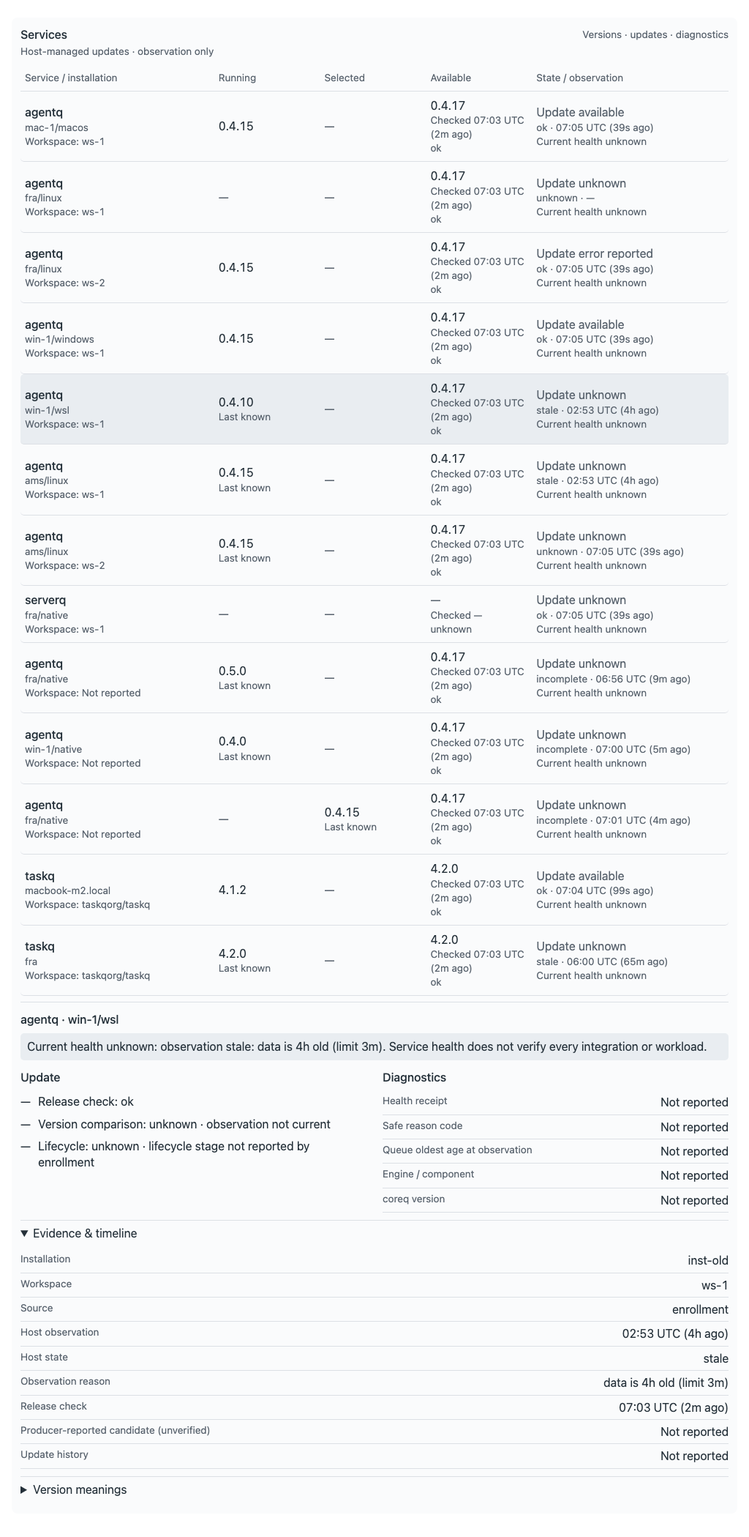
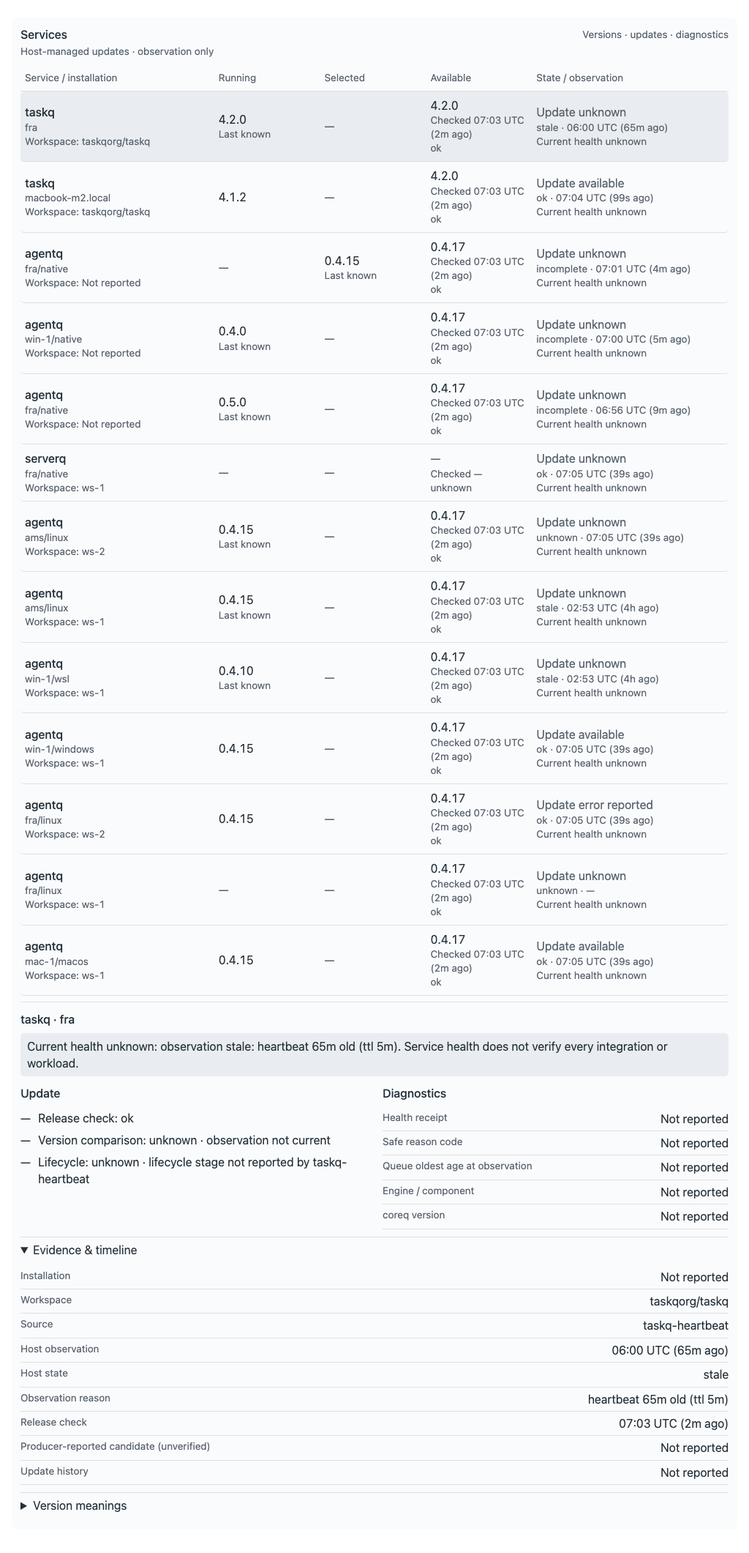
fix(versions): keep legacy host diagnostics distinct
Task: https://github.com/taskqorg/dashq/issues/72

diff --git a/fixture/page.html b/fixture/page.html
@@ -97,13 +97,13 @@
 </table>
 </section>
 <section id="qversions"><div class="app"><div class="line spread"><h2>Services</h2><small>Versions · updates · diagnostics</small></div><small>Host-managed updates · observation only</small><div class="inventory"><div class="row rowhead"><span>Service / installation</span><span>Running</span><span>Selected</span><span>Available</span><span>State / observation</span></div>
-<button type="button" class="row version-select" id="select-version-%5B%22agentq%22%2C%22langfuse%22%2C%22inst-fra%22%2Cnull%5D" aria-controls="version-%5B%22agentq%22%2C%22langfuse%22%2C%22inst-fra%22%2Cnull%5D" aria-pressed="true" aria-expanded="true"><span class="identity"><strong>agentq</strong><small>fra/native</small><small>Workspace: Not reported</small></span><span><span class="label">Running</span>0.5.0<small>Last known</small></span><span><span class="label">Selected</span><span class="muted" title="Unknown: not reported">—</span></span><span><span class="label">Available</span>0.4.17<small>Checked 07:03 UTC (2m ago)</small><small>ok</small></span><span class="health muted">Update unknown<small>incomplete · 06:56 UTC (9m ago)</small><small>Current health unknown</small></span></button>
-<button type="button" class="row version-select" id="select-version-%5B%22agentq%22%2C%22langfuse%22%2C%22inst-win%22%2Cnull%5D" aria-controls="version-%5B%22agentq%22%2C%22langfuse%22%2C%22inst-win%22%2Cnull%5D" aria-pressed="false" aria-expanded="false"><span class="identity"><strong>agentq</strong><small>win-1/native</small><small>Workspace: Not reported</small></span><span><span class="label">Running</span>0.4.0<small>Last known</small></span><span><span class="label">Selected</span><span class="muted" title="Unknown: not reported">—</span></span><span><span class="label">Available</span>0.4.17<small>Checked 07:03 UTC (2m ago)</small><small>ok</small></span><span class="health muted">Update unknown<small>incomplete · 07:00 UTC (5m ago)</small><small>Current health unknown</small></span></button>
-<button type="button" class="row version-select" id="select-version-%5B%22agentq%22%2C%22langfuse-legacy%22%2C%22device%3Adev-fra%22%2Cnull%5D" aria-controls="version-%5B%22agentq%22%2C%22langfuse-legacy%22%2C%22device%3Adev-fra%22%2Cnull%5D" aria-pressed="false" aria-expanded="false"><span class="identity"><strong>agentq</strong><small>fra/native</small><small>Workspace: Not reported</small></span><span><span class="label">Running</span><span class="muted" title="Unknown: not reported">—</span></span><span><span class="label">Selected</span>0.4.16<small>Last known</small></span><span><span class="label">Available</span>0.4.17<small>Checked 07:03 UTC (2m ago)</small><small>ok</small></span><span class="health muted">Update unknown<small>incomplete · 07:01 UTC (4m ago)</small><small>Current health unknown</small></span></button>
-<button type="button" class="row version-select" id="select-version-%5B%22taskq%22%2C%22taskq-heartbeat%22%2Cnull%2C%22taskqorg%2Ftaskq%22%5D" aria-controls="version-%5B%22taskq%22%2C%22taskq-heartbeat%22%2Cnull%2C%22taskqorg%2Ftaskq%22%5D" aria-pressed="false" aria-expanded="false"><span class="identity"><strong>taskq</strong><small>macbook-m2.local</small><small>Workspace: taskqorg/taskq</small></span><span><span class="label">Running</span>4.1.2</span><span><span class="label">Selected</span><span class="muted" title="Unknown: not reported">—</span></span><span><span class="label">Available</span>4.2.0<small>Checked 07:03 UTC (2m ago)</small><small>ok</small></span><span class="health muted">Update available<small>ok · 07:04 UTC (99s ago)</small><small>Current health unknown</small></span></button>
-<button type="button" class="row version-select" id="select-version-%5B%22taskq%22%2C%22taskq-heartbeat%22%2Cnull%2C%22taskqorg%2Ftaskq%22%5D" aria-controls="version-%5B%22taskq%22%2C%22taskq-heartbeat%22%2Cnull%2C%22taskqorg%2Ftaskq%22%5D" aria-pressed="false" aria-expanded="false"><span class="identity"><strong>taskq</strong><small>fra</small><small>Workspace: taskqorg/taskq</small></span><span><span class="label">Running</span>4.2.0<small>Last known</small></span><span><span class="label">Selected</span><span class="muted" title="Unknown: not reported">—</span></span><span><span class="label">Available</span>4.2.0<small>Checked 07:03 UTC (2m ago)</small><small>ok</small></span><span class="health muted">Update unknown<small>stale · 06:00 UTC (65m ago)</small><small>Current health unknown</small></span></button>
+<button type="button" class="row version-select" id="select-version-%5B%22agentq%22%2C%22langfuse%22%2C%22inst-fra%22%2Cnull%2Cnull%5D" aria-controls="version-%5B%22agentq%22%2C%22langfuse%22%2C%22inst-fra%22%2Cnull%2Cnull%5D" aria-pressed="true" aria-expanded="true"><span class="identity"><strong>agentq</strong><small>fra/native</small><small>Workspace: Not reported</small></span><span><span class="label">Running</span>0.5.0<small>Last known</small></span><span><span class="label">Selected</span><span class="muted" title="Unknown: not reported">—</span></span><span><span class="label">Available</span>0.4.17<small>Checked 07:03 UTC (2m ago)</small><small>ok</small></span><span class="health muted">Update unknown<small>incomplete · 06:56 UTC (9m ago)</small><small>Current health unknown</small></span></button>
+<button type="button" class="row version-select" id="select-version-%5B%22agentq%22%2C%22langfuse%22%2C%22inst-win%22%2Cnull%2Cnull%5D" aria-controls="version-%5B%22agentq%22%2C%22langfuse%22%2C%22inst-win%22%2Cnull%2Cnull%5D" aria-pressed="false" aria-expanded="false"><span class="identity"><strong>agentq</strong><small>win-1/native</small><small>Workspace: Not reported</small></span><span><span class="label">Running</span>0.4.0<small>Last known</small></span><span><span class="label">Selected</span><span class="muted" title="Unknown: not reported">—</span></span><span><span class="label">Available</span>0.4.17<small>Checked 07:03 UTC (2m ago)</small><small>ok</small></span><span class="health muted">Update unknown<small>incomplete · 07:00 UTC (5m ago)</small><small>Current health unknown</small></span></button>
+<button type="button" class="row version-select" id="select-version-%5B%22agentq%22%2C%22langfuse-legacy%22%2C%22device%3Adev-fra%22%2Cnull%2Cnull%5D" aria-controls="version-%5B%22agentq%22%2C%22langfuse-legacy%22%2C%22device%3Adev-fra%22%2Cnull%2Cnull%5D" aria-pressed="false" aria-expanded="false"><span class="identity"><strong>agentq</strong><small>fra/native</small><small>Workspace: Not reported</small></span><span><span class="label">Running</span><span class="muted" title="Unknown: not reported">—</span></span><span><span class="label">Selected</span>0.4.16<small>Last known</small></span><span><span class="label">Available</span>0.4.17<small>Checked 07:03 UTC (2m ago)</small><small>ok</small></span><span class="health muted">Update unknown<small>incomplete · 07:01 UTC (4m ago)</small><small>Current health unknown</small></span></button>
+<button type="button" class="row version-select" id="select-version-%5B%22taskq%22%2C%22taskq-heartbeat%22%2Cnull%2C%22taskqorg%2Ftaskq%22%2C%22macbook-m2.local%22%5D" aria-controls="version-%5B%22taskq%22%2C%22taskq-heartbeat%22%2Cnull%2C%22taskqorg%2Ftaskq%22%2C%22macbook-m2.local%22%5D" aria-pressed="false" aria-expanded="false"><span class="identity"><strong>taskq</strong><small>macbook-m2.local</small><small>Workspace: taskqorg/taskq</small></span><span><span class="label">Running</span>4.1.2</span><span><span class="label">Selected</span><span class="muted" title="Unknown: not reported">—</span></span><span><span class="label">Available</span>4.2.0<small>Checked 07:03 UTC (2m ago)</small><small>ok</small></span><span class="health muted">Update available<small>ok · 07:04 UTC (99s ago)</small><small>Current health unknown</small></span></button>
+<button type="button" class="row version-select" id="select-version-%5B%22taskq%22%2C%22taskq-heartbeat%22%2Cnull%2C%22taskqorg%2Ftaskq%22%2C%22fra%22%5D" aria-controls="version-%5B%22taskq%22%2C%22taskq-heartbeat%22%2Cnull%2C%22taskqorg%2Ftaskq%22%2C%22fra%22%5D" aria-pressed="false" aria-expanded="false"><span class="identity"><strong>taskq</strong><small>fra</small><small>Workspace: taskqorg/taskq</small></span><span><span class="label">Running</span>4.2.0<small>Last known</small></span><span><span class="label">Selected</span><span class="muted" title="Unknown: not reported">—</span></span><span><span class="label">Available</span>4.2.0<small>Checked 07:03 UTC (2m ago)</small><small>ok</small></span><span class="health muted">Update unknown<small>stale · 06:00 UTC (65m ago)</small><small>Current health unknown</small></span></button>
 </div>
-<section class="detail version-body" id="version-%5B%22agentq%22%2C%22langfuse%22%2C%22inst-fra%22%2Cnull%5D" aria-labelledby="select-version-%5B%22agentq%22%2C%22langfuse%22%2C%22inst-fra%22%2Cnull%5D"><h3>agentq · fra/native</h3><p class="notice">Current health unknown: observation incomplete: capped query. Service health does not verify every integration or workload.</p><div class="columns"><section><h3>Update</h3><ol class="steps">
+<section class="detail version-body" id="version-%5B%22agentq%22%2C%22langfuse%22%2C%22inst-fra%22%2Cnull%2Cnull%5D" aria-labelledby="select-version-%5B%22agentq%22%2C%22langfuse%22%2C%22inst-fra%22%2Cnull%2Cnull%5D"><h3>agentq · fra/native</h3><p class="notice">Current health unknown: observation incomplete: capped query. Service health does not verify every integration or workload.</p><div class="columns"><section><h3>Update</h3><ol class="steps">
 <li><span aria-hidden="true">—</span><span>Release check: ok</span></li>
 <li><span aria-hidden="true">—</span><span>Version comparison: unknown · observation not current</span></li>
 <li><span aria-hidden="true">—</span><span>Lifecycle: unknown · lifecycle stage not reported by langfuse</span></li>
@@ -113,7 +113,7 @@
 <div class="fact"><small>Queue oldest age at observation</small><span>Not reported</span></div>
 <div class="fact"><small>Engine / component</small><span>Not reported</span></div>
 <div class="fact"><small>coreq version</small><span>Not reported</span></div>
-</section></div><details id="events-version-%5B%22agentq%22%2C%22langfuse%22%2C%22inst-fra%22%2Cnull%5D"><summary id="summary-events-version-%5B%22agentq%22%2C%22langfuse%22%2C%22inst-fra%22%2Cnull%5D">Evidence &amp; timeline</summary>
+</section></div><details id="events-version-%5B%22agentq%22%2C%22langfuse%22%2C%22inst-fra%22%2Cnull%2Cnull%5D"><summary id="summary-events-version-%5B%22agentq%22%2C%22langfuse%22%2C%22inst-fra%22%2Cnull%2Cnull%5D">Evidence &amp; timeline</summary>
 <div class="fact"><small>Installation</small><span>inst-fra</span></div>
 <div class="fact"><small>Workspace</small><span>Not reported</span></div>
 <div class="fact"><small>Source</small><span>langfuse</span></div>
@@ -124,7 +124,7 @@
 <div class="fact"><small>Producer-reported candidate (unverified)</small><span>Not reported</span></div>
 <div class="fact"><small>Update history</small><span>Not reported</span></div>
 </details></section>
-<section class="detail version-body" id="version-%5B%22agentq%22%2C%22langfuse%22%2C%22inst-win%22%2Cnull%5D" aria-labelledby="select-version-%5B%22agentq%22%2C%22langfuse%22%2C%22inst-win%22%2Cnull%5D" hidden><h3>agentq · win-1/native</h3><p class="notice">Current health unknown: observation incomplete: capped query. Service health does not verify every integration or workload.</p><div class="columns"><section><h3>Update</h3><ol class="steps">
+<section class="detail version-body" id="version-%5B%22agentq%22%2C%22langfuse%22%2C%22inst-win%22%2Cnull%2Cnull%5D" aria-labelledby="select-version-%5B%22agentq%22%2C%22langfuse%22%2C%22inst-win%22%2Cnull%2Cnull%5D" hidden><h3>agentq · win-1/native</h3><p class="notice">Current health unknown: observation incomplete: capped query. Service health does not verify every integration or workload.</p><div class="columns"><section><h3>Update</h3><ol class="steps">
 <li><span aria-hidden="true">—</span><span>Release check: ok</span></li>
 <li><span aria-hidden="true">—</span><span>Version comparison: unknown · observation not current</span></li>
 <li><span aria-hidden="true">—</span><span>Lifecycle: unknown · lifecycle stage not reported by langfuse</span></li>
@@ -134,7 +134,7 @@
 <div class="fact"><small>Queue oldest age at observation</small><span>Not reported</span></div>
 <div class="fact"><small>Engine / component</small><span>Not reported</span></div>
 <div class="fact"><small>coreq version</small><span>Not reported</span></div>
-</section></div><details id="events-version-%5B%22agentq%22%2C%22langfuse%22%2C%22inst-win%22%2Cnull%5D"><summary id="summary-events-version-%5B%22agentq%22%2C%22langfuse%22%2C%22inst-win%22%2Cnull%5D">Evidence &amp; timeline</summary>
+</section></div><details id="events-version-%5B%22agentq%22%2C%22langfuse%22%2C%22inst-win%22%2Cnull%2Cnull%5D"><summary id="summary-events-version-%5B%22agentq%22%2C%22langfuse%22%2C%22inst-win%22%2Cnull%2Cnull%5D">Evidence &amp; timeline</summary>
 <div class="fact"><small>Installation</small><span>inst-win</span></div>
 <div class="fact"><small>Workspace</small><span>Not reported</span></div>
 <div class="fact"><small>Source</small><span>langfuse</span></div>
@@ -145,7 +145,7 @@
 <div class="fact"><small>Producer-reported candidate (unverified)</small><span>Not reported</span></div>
 <div class="fact"><small>Update history</small><span>Not reported</span></div>
 </details></section>
-<section class="detail version-body" id="version-%5B%22agentq%22%2C%22langfuse-legacy%22%2C%22device%3Adev-fra%22%2Cnull%5D" aria-labelledby="select-version-%5B%22agentq%22%2C%22langfuse-legacy%22%2C%22device%3Adev-fra%22%2Cnull%5D" hidden><h3>agentq · fra/native</h3><p class="notice">Current health unknown: observation incomplete: capped query. Service health does not verify every integration or workload.</p><div class="columns"><section><h3>Update</h3><ol class="steps">
+<section class="detail version-body" id="version-%5B%22agentq%22%2C%22langfuse-legacy%22%2C%22device%3Adev-fra%22%2Cnull%2Cnull%5D" aria-labelledby="select-version-%5B%22agentq%22%2C%22langfuse-legacy%22%2C%22device%3Adev-fra%22%2Cnull%2Cnull%5D" hidden><h3>agentq · fra/native</h3><p class="notice">Current health unknown: observation incomplete: capped query. Service health does not verify every integration or workload.</p><div class="columns"><section><h3>Update</h3><ol class="steps">
 <li><span aria-hidden="true">—</span><span>Release check: ok</span></li>
 <li><span aria-hidden="true">—</span><span>Version comparison: unknown · no verified version comparison</span></li>
 <li><span aria-hidden="true">—</span><span>Lifecycle: unknown · lifecycle stage not reported by langfuse-legacy</span></li>
@@ -155,7 +155,7 @@
 <div class="fact"><small>Queue oldest age at observation</small><span>Not reported</span></div>
 <div class="fact"><small>Engine / component</small><span>Not reported</span></div>
 <div class="fact"><small>coreq version</small><span>Not reported</span></div>
-</section></div><details id="events-version-%5B%22agentq%22%2C%22langfuse-legacy%22%2C%22device%3Adev-fra%22%2Cnull%5D"><summary id="summary-events-version-%5B%22agentq%22%2C%22langfuse-legacy%22%2C%22device%3Adev-fra%22%2Cnull%5D">Evidence &amp; timeline</summary>
+</section></div><details id="events-version-%5B%22agentq%22%2C%22langfuse-legacy%22%2C%22device%3Adev-fra%22%2Cnull%2Cnull%5D"><summary id="summary-events-version-%5B%22agentq%22%2C%22langfuse-legacy%22%2C%22device%3Adev-fra%22%2Cnull%2Cnull%5D">Evidence &amp; timeline</summary>
 <div class="fact"><small>Installation</small><span>device:dev-fra</span></div>
 <div class="fact"><small>Workspace</small><span>Not reported</span></div>
 <div class="fact"><small>Source</small><span>langfuse-legacy</span></div>
@@ -166,7 +166,7 @@
 <div class="fact"><small>Producer-reported candidate (unverified)</small><span>0.4.17</span></div>
 <div class="fact"><small>Update history</small><span>Not reported</span></div>
 </details></section>
-<section class="detail version-body" id="version-%5B%22taskq%22%2C%22taskq-heartbeat%22%2Cnull%2C%22taskqorg%2Ftaskq%22%5D" aria-labelledby="select-version-%5B%22taskq%22%2C%22taskq-heartbeat%22%2Cnull%2C%22taskqorg%2Ftaskq%22%5D" hidden><h3>taskq · macbook-m2.local</h3><p class="notice">Current health unknown: health receipt not reported by taskq-heartbeat. Service health does not verify every integration or workload.</p><div class="columns"><section><h3>Update</h3><ol class="steps">
+<section class="detail version-body" id="version-%5B%22taskq%22%2C%22taskq-heartbeat%22%2Cnull%2C%22taskqorg%2Ftaskq%22%2C%22macbook-m2.local%22%5D" aria-labelledby="select-version-%5B%22taskq%22%2C%22taskq-heartbeat%22%2Cnull%2C%22taskqorg%2Ftaskq%22%2C%22macbook-m2.local%22%5D" hidden><h3>taskq · macbook-m2.local</h3><p class="notice">Current health unknown: health receipt not reported by taskq-heartbeat. Service health does not verify every integration or workload.</p><div class="columns"><section><h3>Update</h3><ol class="steps">
 <li><span aria-hidden="true">—</span><span>Release check: ok</span></li>
 <li><span aria-hidden="true">—</span><span>Version comparison: available</span></li>
 <li><span aria-hidden="true">—</span><span>Lifecycle: unknown · lifecycle stage not reported by taskq-heartbeat</span></li>
@@ -176,7 +176,7 @@
 <div class="fact"><small>Queue oldest age at observation</small><span>Not reported</span></div>
 <div class="fact"><small>Engine / component</small><span>Not reported</span></div>
 <div class="fact"><small>coreq version</small><span>Not reported</span></div>
-</section></div><details id="events-version-%5B%22taskq%22%2C%22taskq-heartbeat%22%2Cnull%2C%22taskqorg%2Ftaskq%22%5D"><summary id="summary-events-version-%5B%22taskq%22%2C%22taskq-heartbeat%22%2Cnull%2C%22taskqorg%2Ftaskq%22%5D">Evidence &amp; timeline</summary>
+</section></div><details id="events-version-%5B%22taskq%22%2C%22taskq-heartbeat%22%2Cnull%2C%22taskqorg%2Ftaskq%22%2C%22macbook-m2.local%22%5D"><summary id="summary-events-version-%5B%22taskq%22%2C%22taskq-heartbeat%22%2Cnull%2C%22taskqorg%2Ftaskq%22%2C%22macbook-m2.local%22%5D">Evidence &amp; timeline</summary>
 <div class="fact"><small>Installation</small><span>Not reported</span></div>
 <div class="fact"><small>Workspace</small><span>taskqorg/taskq</span></div>
 <div class="fact"><small>Source</small><span>taskq-heartbeat</span></div>
@@ -187,7 +187,7 @@
 <div class="fact"><small>Producer-reported candidate (unverified)</small><span>Not reported</span></div>
 <div class="fact"><small>Update history</small><span>Not reported</span></div>
 </details></section>
-<section class="detail version-body" id="version-%5B%22taskq%22%2C%22taskq-heartbeat%22%2Cnull%2C%22taskqorg%2Ftaskq%22%5D" aria-labelledby="select-version-%5B%22taskq%22%2C%22taskq-heartbeat%22%2Cnull%2C%22taskqorg%2Ftaskq%22%5D" hidden><h3>taskq · fra</h3><p class="notice">Current health unknown: observation stale: heartbeat 65m old (ttl 5m). Service health does not verify every integration or workload.</p><div class="columns"><section><h3>Update</h3><ol class="steps">
+<section class="detail version-body" id="version-%5B%22taskq%22%2C%22taskq-heartbeat%22%2Cnull%2C%22taskqorg%2Ftaskq%22%2C%22fra%22%5D" aria-labelledby="select-version-%5B%22taskq%22%2C%22taskq-heartbeat%22%2Cnull%2C%22taskqorg%2Ftaskq%22%2C%22fra%22%5D" hidden><h3>taskq · fra</h3><p class="notice">Current health unknown: observation stale: heartbeat 65m old (ttl 5m). Service health does not verify every integration or workload.</p><div class="columns"><section><h3>Update</h3><ol class="steps">
 <li><span aria-hidden="true">—</span><span>Release check: ok</span></li>
 <li><span aria-hidden="true">—</span><span>Version comparison: unknown · observation not current</span></li>
 <li><span aria-hidden="true">—</span><span>Lifecycle: unknown · lifecycle stage not reported by taskq-heartbeat</span></li>
@@ -197,7 +197,7 @@
 <div class="fact"><small>Queue oldest age at observation</small><span>Not reported</span></div>
 <div class="fact"><small>Engine / component</small><span>Not reported</span></div>
 <div class="fact"><small>coreq version</small><span>Not reported</span></div>
-</section></div><details id="events-version-%5B%22taskq%22%2C%22taskq-heartbeat%22%2Cnull%2C%22taskqorg%2Ftaskq%22%5D"><summary id="summary-events-version-%5B%22taskq%22%2C%22taskq-heartbeat%22%2Cnull%2C%22taskqorg%2Ftaskq%22%5D">Evidence &amp; timeline</summary>
+</section></div><details id="events-version-%5B%22taskq%22%2C%22taskq-heartbeat%22%2Cnull%2C%22taskqorg%2Ftaskq%22%2C%22fra%22%5D"><summary id="summary-events-version-%5B%22taskq%22%2C%22taskq-heartbeat%22%2Cnull%2C%22taskqorg%2Ftaskq%22%2C%22fra%22%5D">Evidence &amp; timeline</summary>
 <div class="fact"><small>Installation</small><span>Not reported</span></div>
 <div class="fact"><small>Workspace</small><span>taskqorg/taskq</span></div>
 <div class="fact"><small>Source</small><span>taskq-heartbeat</span></div>

diff --git a/src/page.rs b/src/page.rs
@@ -284,8 +284,8 @@ pub fn render(doc: &Value, links: &Value) -> String {
 fn versions(w: &mut String, versions: &Value, now: u64) {
     let rows = versions["rows"].as_array().cloned().unwrap_or_default();
     if rows.is_empty() { return; }
-    // A tuple, not the host or row index: Windows/WSL and separate workspaces retain their own selection.
-    let id = |r: &Value| format!("version-{}", enc(&json!([r["product"], r["provenance"], r["installation"], r["workspace"]]).to_string()));
+    // Known installations keep identity across host renames; legacy rows without an ID use host within source/workspace.
+    let id = |r: &Value| format!("version-{}", enc(&json!([r["product"], r["provenance"], r["installation"], r["workspace"], if r["installation"].is_null() { &r["host"] } else { &Value::Null }]).to_string()));
     let value = |v: &Value| if v.is_null() { "Not reported".into() } else { text(v) };
     let version = |v: &Value| format!("{}{}", v["version"].as_str().map_or_else(|| format!("<span class=\"muted\" title=\"Unknown: {}\">—</span>", esc(v["reason"].as_str().unwrap_or("not reported"))), esc), if v["last_known"] == true { "<small>Last known</small>" } else { "" });
     let _ = writeln!(w, "<section id=\"qversions\"><div class=\"app\"><div class=\"line spread\"><h2>Services</h2><small>Versions · updates · diagnostics</small></div><small>Host-managed updates · observation only</small><div class=\"inventory\"><div class=\"row rowhead\"><span>Service / installation</span><span>Running</span><span>Selected</span><span>Available</span><span>State / observation</span></div>");
@@ -905,6 +905,28 @@ mod tests {
         versions(&mut html, &doc["versions"], doc["generated_at"].as_u64().unwrap());
         let rows = doc["versions"]["rows"].as_array().unwrap();
         assert_eq!(html.matches("class=\"row version-select\"").count(), rows.len());
+        // Legacy TaskQ hosts in the same workspace have no installation ID.
+        let keys = |page: &str| page.split(" aria-controls=\"").skip(1)
+            .map(|s| s.split('"').next().unwrap().to_owned()).collect::<Vec<_>>();
+        let ids = keys(&html);
+        assert_eq!(ids.iter().collect::<std::collections::BTreeSet<_>>().len(), rows.len(), "each service controls its own detail");
+        let legacy: Vec<_> = rows.iter().enumerate().filter(|(_, r)| r["product"] == "taskq" && r["installation"].is_null()).collect();
+        assert_eq!(legacy.len(), 2);
+        assert_eq!(legacy[0].1["workspace"], legacy[1].1["workspace"]);
+        for (i, r) in &legacy {
+            let detail = html.split(&format!("id=\"{}\"", ids[*i])).nth(1).unwrap().split("</h3>").next().unwrap();
+            assert!(detail.contains(&format!("taskq · {}", r["host"].as_str().unwrap())));
+        }
+        let mut reordered = doc["versions"].clone();
+        reordered["rows"].as_array_mut().unwrap().reverse();
+        // Fresh values and renamed known hosts must not replace installation identity.
+        for row in reordered["rows"].as_array_mut().unwrap() {
+            row["running"]["version"] = json!("9.9.9");
+            if !row["installation"].is_null() { row["host"] = json!("renamed"); }
+        }
+        let mut refreshed = String::new();
+        versions(&mut refreshed, &reordered, 0);
+        assert_eq!(keys(&refreshed), ids.into_iter().rev().collect::<Vec<_>>());
         assert_eq!(html.matches("aria-pressed=\"true\"").count(), 1);
         assert_eq!(html.matches(" hidden>").count(), rows.len() - 1);
         for case in cases["cases"].as_object().unwrap().values() {

diff --git a/docs/design/evidence/service-versions.md b/docs/design/evidence/service-versions.md
@@ -12,19 +12,29 @@ contextual detail and two-column update/diagnostic layout. Demo selectors are om
 
 These images show synthetic `fixture/versions.json` input through `data::build` and the production page
 renderer. The browser probe changes observed version 0.4.16 to 0.4.15 to demonstrate refresh, then selects
-the stale WSL installation and expands its evidence. Windows remains a separate row. Images were visually
+the stale legacy TaskQ FRA row and expands its evidence. Mac and FRA share a workspace and have no
+reported installation ID; each has a unique control/detail key. Windows and WSL remain separate rows. Images were visually
 compared with the pinned reference at both sizes; rows, selected detail and large text remain legible.
 
 A local Chromium 156 / Playwright 1.64.0 probe served the generated HTML with production `assets/app.js`
 and `assets/style.css`. At both sizes it exercised repeated scheduled 60-second refreshes (virtual clock),
-changed values, an HTTP 503 and recovery. Assertions passed for selected installation/workspace, focused
-row, scroll offset, open evidence, exactly one visible detail, no horizontal overflow and no script errors.
+changed values, reversed inventory order, an HTTP 503 and recovery. Assertions passed for selected installation/workspace, focused
+row, scroll offset, open evidence, exactly one selected row and visible detail, correct FRA diagnostics,
+unique DOM IDs, no horizontal overflow and no script errors.
 This is bounded browser evidence, not wall-clock or live-source qualification.
 
 The retained chain `cargo test --locked service_versions_render_projected_evidence` checks every producer
 fixture case reaches the view, unknown lifecycle/health and last-known versions, separate observation and
 release times, reported engines and queue age, HTML escaping, omission of arbitrary diagnostic fields and
-absence of lifecycle/demo controls. `fixture/page.html` changes only to add the D18 section.
+absence of lifecycle/demo controls. It also covers two legacy hosts in one workspace, unique keys,
+correct detail association and stable keys after reorder/version changes or a known installation's host
+rename. Before the identity fix this chain failed: 13 rows had only 12 unique keys; afterward it passed.
+`fixture/page.html` includes the D18 section and corrected keys.
+
+Identity rule: product, provenance, installation and workspace identify a known installation; only rows
+without an installation ID add the observed host to that tuple. This is a UI fallback, not an invented
+installation identity or a hostname-based join. A legacy host rename cannot retain identity without a
+producer ID. It does not change the projection or current-health semantics.
 
 Producer limitations from #70 remain: no health receipt, waiting/startup/checksum/rollback stage, update
 history, safe reason code or coreq version is currently supplied. These fields read unknown/not reported;
